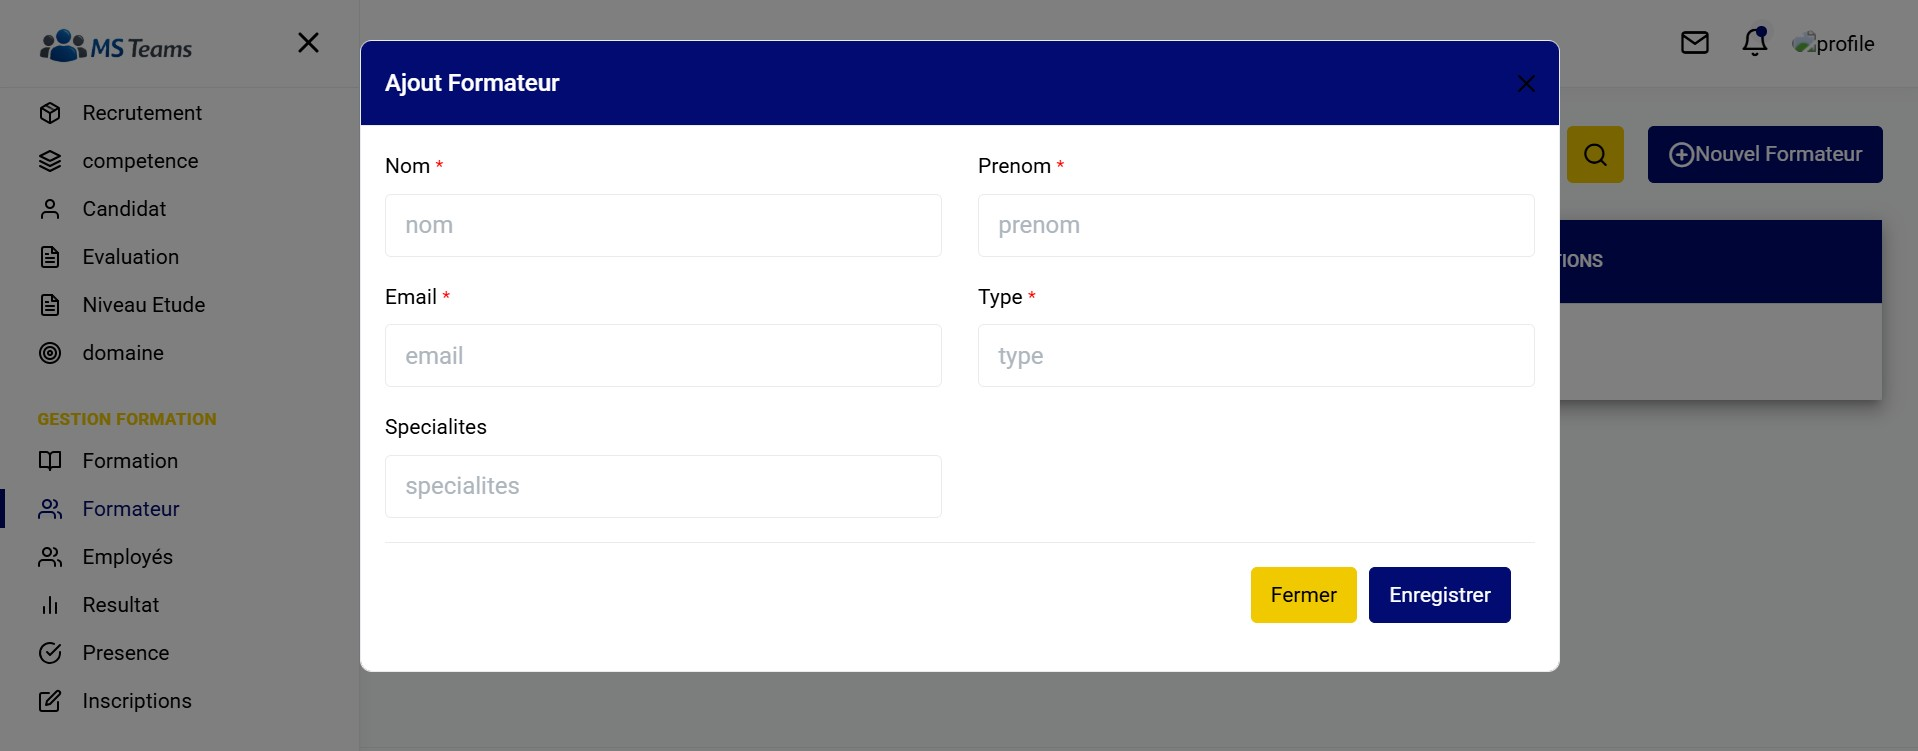
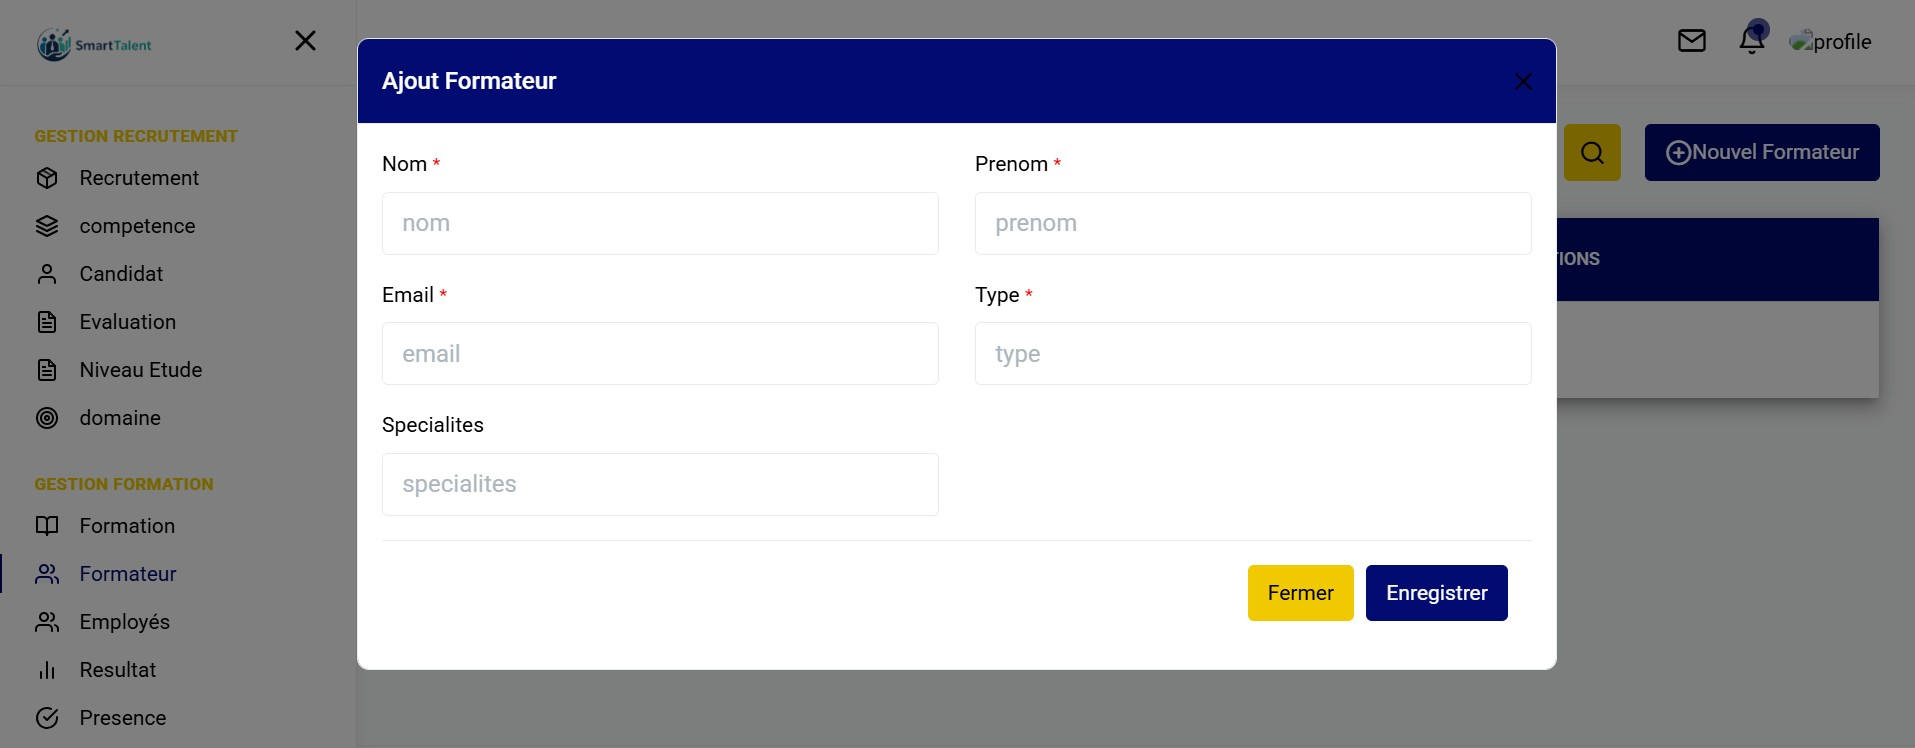
mise a jour des screenshots

diff --git a/frontend-smart-talent/src/app/views/pages/auth/login/login.component.html b/frontend-smart-talent/src/app/views/pages/auth/login/login.component.html
@@ -9,7 +9,7 @@
         </div>
         <div class="col-md-8 ps-md-0">
           <div class="auth-form-wrapper px-4 py-5">
-            <a routerLink="." class="nobleui-logo d-block mb-2">MS <span>TEAMS</span></a>
+            <a routerLink="." class="nobleui-logo d-block mb-2">Smart<span class="fw-bold text-muted">Talent</span></a>
             <h5 class="text-muted fw-normal mb-4">Welcome back! Log in to your account.</h5>
             <form class="forms-sample">
               <div class="mb-3">

diff --git a/frontend-smart-talent/src/app/views/layout/sidebar/sidebar.component.html b/frontend-smart-talent/src/app/views/layout/sidebar/sidebar.component.html
@@ -3,7 +3,7 @@
 
     <!--- Logo -->
     <a routerLink="/" class="sidebar-brand nobleui-logo">
-      <img src="assets/images/logo-ms-teams.png" alt="logo">
+      <img src="assets/images/logo.png" alt="logo">
     </a>
 
     <!-- <a routerLink="/" class="sidebar-brand nobleui-logo">
